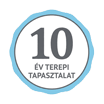
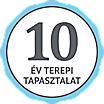
Replace trust seals with the new owner-supplied badges.
Ship size-exact 80/84/104 PNGs and update badge lint hashes.

diff --git a/scripts/check-trust-badges.py b/scripts/check-trust-badges.py
@@ -15,46 +15,47 @@ FORBIDDEN_SHA256 = {
[1 lines of base64/hex data omitted]
 }
 
-# Byte-identical copies of the owner-supplied web PNGs (no re-encode).
+# Size-exact web PNGs derived from owner-supplied seals (80 / 84 / 104).
 REQUIRED = [
     {
         "label": "10év 80",
         "path": ROOT / "public" / "badges" / "10-ev-terepi-tapasztalat-80.png",
         "size": (80, 80),
[2 lines of base64/hex data omitted]
     },
     {
         "label": "10év 84",
         "path": ROOT / "public" / "badges" / "10-ev-terepi-tapasztalat-84.png",
         "size": (84, 84),
[2 lines of base64/hex data omitted]
     },
     {
         "label": "10év 104",
         "path": ROOT / "public" / "badges" / "10-ev-terepi-tapasztalat-104.png",
         "size": (104, 104),
[2 lines of base64/hex data omitted]
     },
     {
         "label": "orszagos 80",
         "path": ROOT / "public" / "badges" / "orszagos-kiszallas-80.png",
         "size": (80, 80),
[2 lines of base64/hex data omitted]
         "min_grey_frac": 0.05,
     },
     {
         "label": "orszagos 84",
         "path": ROOT / "public" / "badges" / "orszagos-kiszallas-84.png",
         "size": (84, 84),
[2 lines of base64/hex data omitted]
         "min_grey_frac": 0.05,
     },
     {
         "label": "orszagos 104",
         "path": ROOT / "public" / "badges" / "orszagos-kiszallas-104.png",
         "size": (104, 104),
[1 lines of base64/hex data omitted]
-        "min_grey_frac": 0.05,
[1 lines of base64/hex data omitted]
+        # Thinner ring after downscale to 104px; still present, just below 80/84 density.
+        "min_grey_frac": 0.04,
     },
 ]
 
@@ -95,7 +96,8 @@ def grey_ring_frac(path: Path) -> float:
     outer = sorted(radii)[len(radii) // 2]
     grey = n = 0
     for ang in range(0, 360, 1):
-        for frac in (0.845, 0.855, 0.865, 0.875):
+        # Thin grey ring sits ~0.87–0.91 of outer radius on the current seals.
+        for frac in (0.845, 0.855, 0.865, 0.875, 0.885, 0.895):
             r = outer * frac
             x = int(round(cx + r * math.cos(math.radians(ang))))
             y = int(round(cy + r * math.sin(math.radians(ang))))
@@ -130,7 +132,7 @@ def main() -> int:
         if digest != item["sha256"]:
             errors.append(
                 f"{item['label']}: file changed (got {digest[:16]}…). "
-                "Replace only with the owner-supplied size-exact PNG; do not re-encode."
+                "Replace only via the owner-supplied seals resized to 80/84/104."
             )
             continue
         with Image.open(path) as im:
